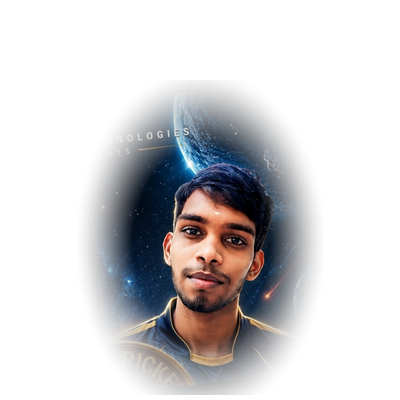
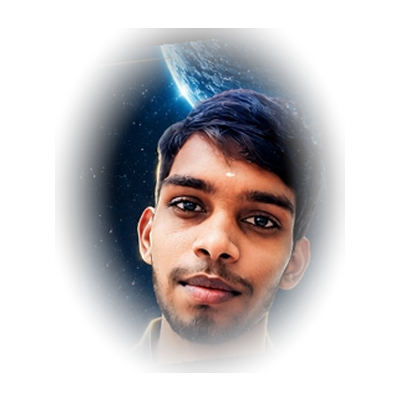
fix(splash): extract face alone, scale up and center straight inside frames

diff --git a/frontend/src/components/common/SplashOverlay.tsx b/frontend/src/components/common/SplashOverlay.tsx
@@ -154,7 +154,7 @@ export default function SplashOverlay() {
             >
               {/* THIRUMALAI D PHOTO FRAME */}
               <div className="flex flex-col items-center group">
-                <div className="relative w-24 h-24 sm:w-32 sm:h-32 rounded-full p-1 bg-gradient-to-tr from-amber-500 via-amber-300 to-cyan-400 shadow-[0_0_25px_rgba(245,158,11,0.5)] transition-transform duration-300 group-hover:scale-105">
+                <div className="relative w-28 h-28 sm:w-36 sm:h-36 rounded-full p-1 bg-gradient-to-tr from-amber-500 via-amber-300 to-cyan-400 shadow-[0_0_30px_rgba(245,158,11,0.55)] transition-transform duration-300 group-hover:scale-105">
                   {/* Outer Dashed Rotating Gold Ring */}
                   <div className="absolute -inset-2.5 rounded-full border border-dashed border-amber-400/50 animate-spin [animation-duration:16s] pointer-events-none" />
                   
@@ -164,13 +164,13 @@ export default function SplashOverlay() {
                       src="/thirumalai.png"
                       alt="THIRUMALAI D"
                       fill
-                      className="object-cover filter drop-shadow-[0_0_12px_rgba(245,158,11,0.6)]"
+                      className="object-cover scale-110 filter drop-shadow-[0_0_12px_rgba(245,158,11,0.6)]"
                       priority
                     />
                   </div>
                 </div>
                 {/* Name Badge */}
-                <div className="mt-2.5 px-3 py-1 rounded-full bg-slate-950/90 border border-amber-400/60 shadow-[0_0_12px_rgba(245,158,11,0.4)] backdrop-blur-md">
+                <div className="mt-2.5 px-3.5 py-1 rounded-full bg-slate-950/90 border border-amber-400/60 shadow-[0_0_12px_rgba(245,158,11,0.4)] backdrop-blur-md">
                   <span className="text-[10px] sm:text-xs font-black tracking-widest text-amber-300 uppercase">
                     THIRUMALAI D
                   </span>
@@ -180,13 +180,13 @@ export default function SplashOverlay() {
               {/* CENTER DIVIDER / ROYAL SYMBOL */}
               <div className="flex flex-col items-center justify-center space-y-1 opacity-80">
                 <div className="w-2 h-2 rounded-full bg-amber-400 animate-ping" />
-                <div className="w-0.5 h-12 bg-gradient-to-b from-amber-400 via-cyan-400 to-amber-400 rounded-full" />
+                <div className="w-0.5 h-14 bg-gradient-to-b from-amber-400 via-cyan-400 to-amber-400 rounded-full" />
                 <div className="w-2 h-2 rounded-full bg-cyan-400 animate-ping" />
               </div>
 
               {/* DIVAGAR E PHOTO FRAME */}
               <div className="flex flex-col items-center group">
-                <div className="relative w-24 h-24 sm:w-32 sm:h-32 rounded-full p-1 bg-gradient-to-tr from-cyan-400 via-amber-300 to-amber-500 shadow-[0_0_25px_rgba(56,189,248,0.5)] transition-transform duration-300 group-hover:scale-105">
+                <div className="relative w-28 h-28 sm:w-36 sm:h-36 rounded-full p-1 bg-gradient-to-tr from-cyan-400 via-amber-300 to-amber-500 shadow-[0_0_30px_rgba(56,189,248,0.55)] transition-transform duration-300 group-hover:scale-105">
                   {/* Outer Dashed Rotating Cyan Ring */}
                   <div className="absolute -inset-2.5 rounded-full border border-dashed border-cyan-400/50 animate-spin [animation-duration:16s] pointer-events-none" />
                   
@@ -196,13 +196,13 @@ export default function SplashOverlay() {
                       src="/divagar.png"
                       alt="DIVAGAR E"
                       fill
-                      className="object-cover filter drop-shadow-[0_0_12px_rgba(56,189,248,0.6)]"
+                      className="object-cover scale-110 filter drop-shadow-[0_0_12px_rgba(56,189,248,0.6)]"
                       priority
                     />
                   </div>
                 </div>
                 {/* Name Badge */}
-                <div className="mt-2.5 px-3 py-1 rounded-full bg-slate-950/90 border border-cyan-400/60 shadow-[0_0_12px_rgba(56,189,248,0.4)] backdrop-blur-md">
+                <div className="mt-2.5 px-3.5 py-1 rounded-full bg-slate-950/90 border border-cyan-400/60 shadow-[0_0_12px_rgba(56,189,248,0.4)] backdrop-blur-md">
                   <span className="text-[10px] sm:text-xs font-black tracking-widest text-cyan-300 uppercase">
                     DIVAGAR E
                   </span>
